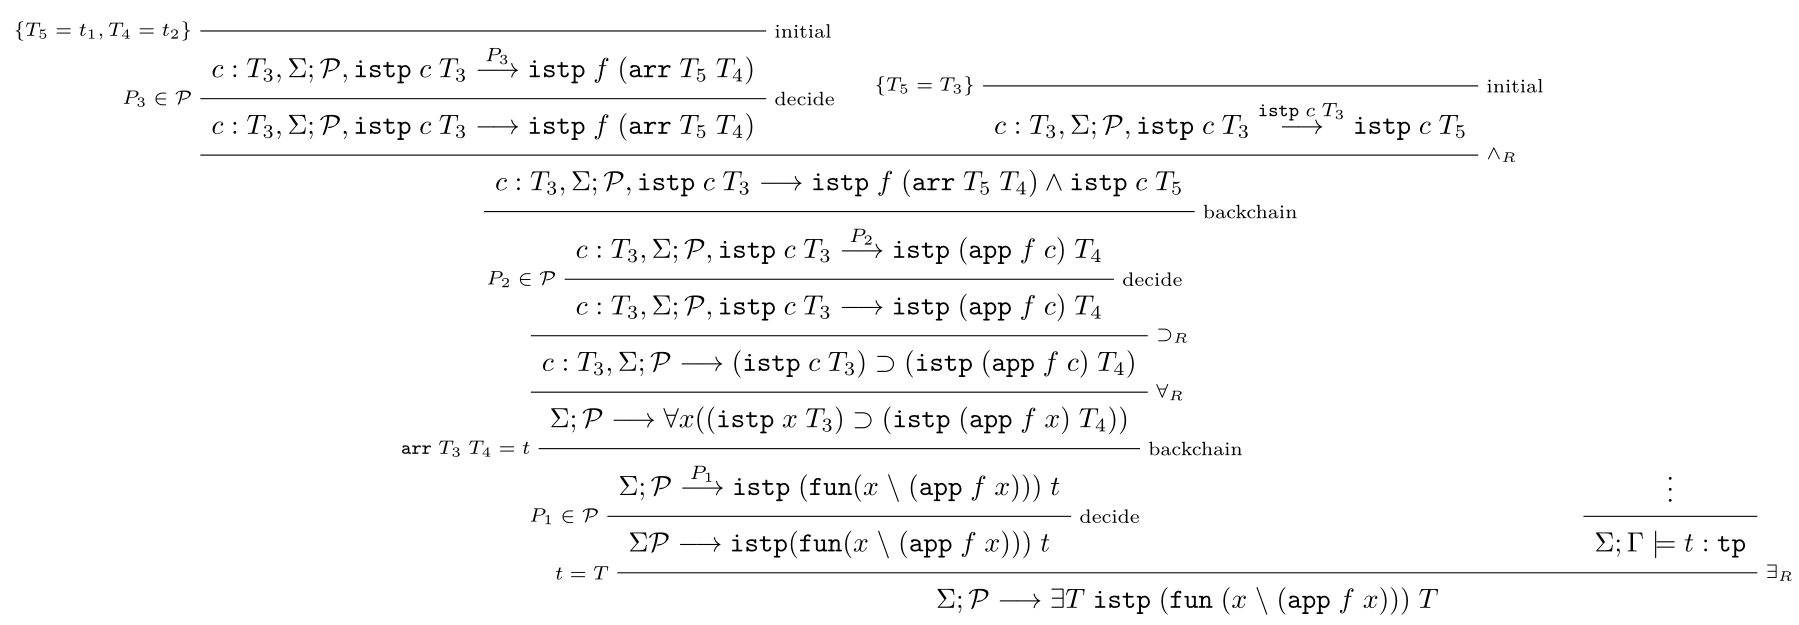
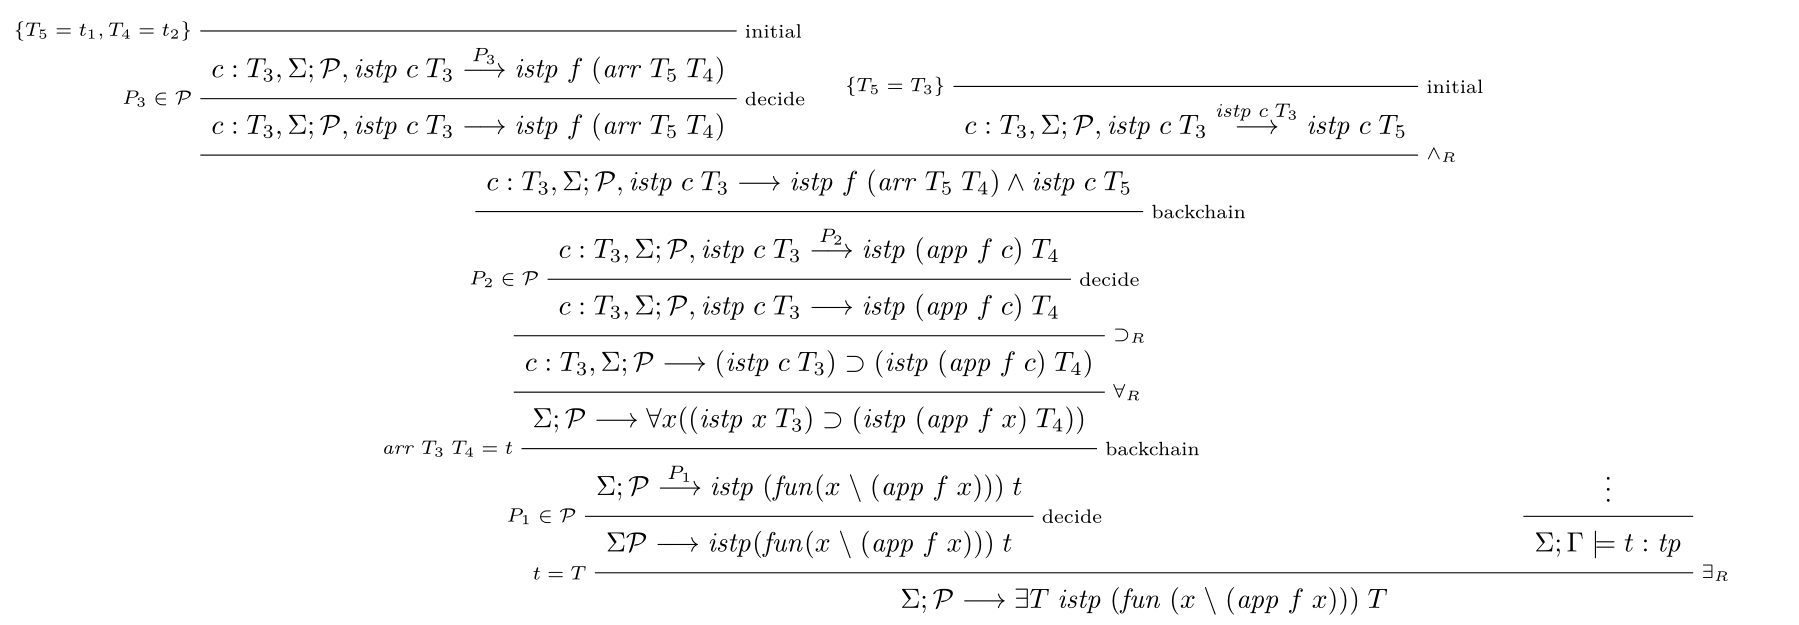
* added local version of MathJax * updated LaTeX proof trees * moved jQuery to scripts folder

diff --git a/index.html b/index.html
@@ -6,7 +6,7 @@
 		<title>Learn Lambda Prolog!</title>
 		<link href="styles/style.css" rel="stylesheet" type="text/css">
 
-		<script type="text/javascript" src="jquery.js"></script>
+		<script type="text/javascript" src="scripts/jquery.js"></script>
 
 		<link href="https://afeld.github.io/emoji-css/emoji.css" rel="stylesheet">
 
@@ -25,13 +25,18 @@
 
 		<script type="text/x-mathjax-config">
 			MathJax.Hub.Config({
+		    extensions: ["tex2jax.js"],
+		    jax: ["input/TeX","output/HTML-CSS"],
 				tex2jax: { inlineMath : [['$','$'], ['\\(','\\)']] },
 				"HTML-CSS" : { preferredFont : "STIX" }
 			});
 		</script>
 
-		<script src='https://cdnjs.cloudflare.com/ajax/libs/mathjax/2.7.5/latest.js?config=TeX-MML-AM_CHTML' async></script>
+		<!-- Remote MathJax -->
+		<!-- <script src='https://cdnjs.cloudflare.com/ajax/libs/mathjax/2.7.5/latest.js?config=TeX-MML-AM_CHTML' async></script> -->
 
+		<!-- Local MathJax -->
+		<script type="text/javascript" src='scripts/MathJax/MathJax.js' async></script>		
 
 		<script type="text/javascript">
 			function getUpdateElements()
@@ -979,7 +984,7 @@
 							Let $P_1 =$ <span class="code">length nil 0</span>.
 						</div>
 						<div class="note">
-							Let $P_2 = \forall \, \mathtt{H} \; \forall \, \mathtt{T} \; \forall \, \mathtt{N} \; \backslash \, \mathtt{length \; (cons \; H \; T) \; (1 + N) :- length \; T \; N}$.
+							Let $P_2 = \forall \, \mathtt{H} \; \forall \, \mathtt{T} \; \forall \, \mathtt{N}$ <span class="code">\ length (cons H T) (1 + N) :- length T N}</span>.
 						</div>
 						<div class="note">
 							Let $\mathcal{P} = \{ P_1 , P_2 \}$.
